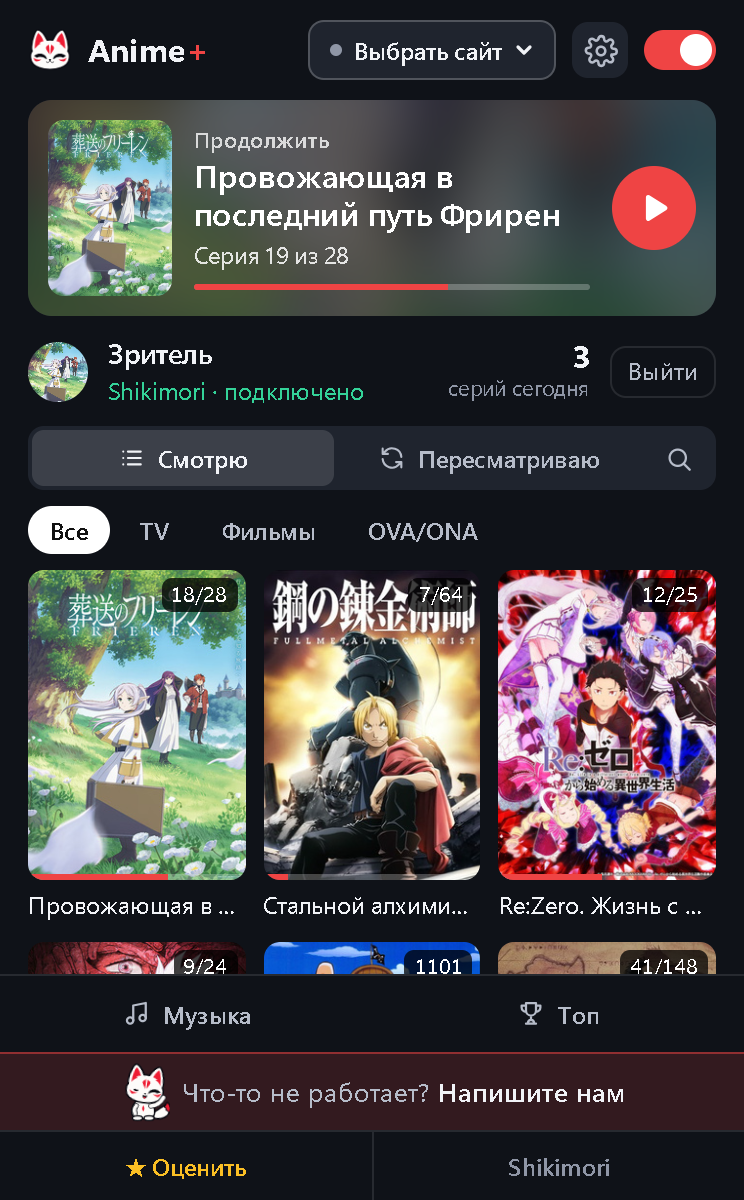
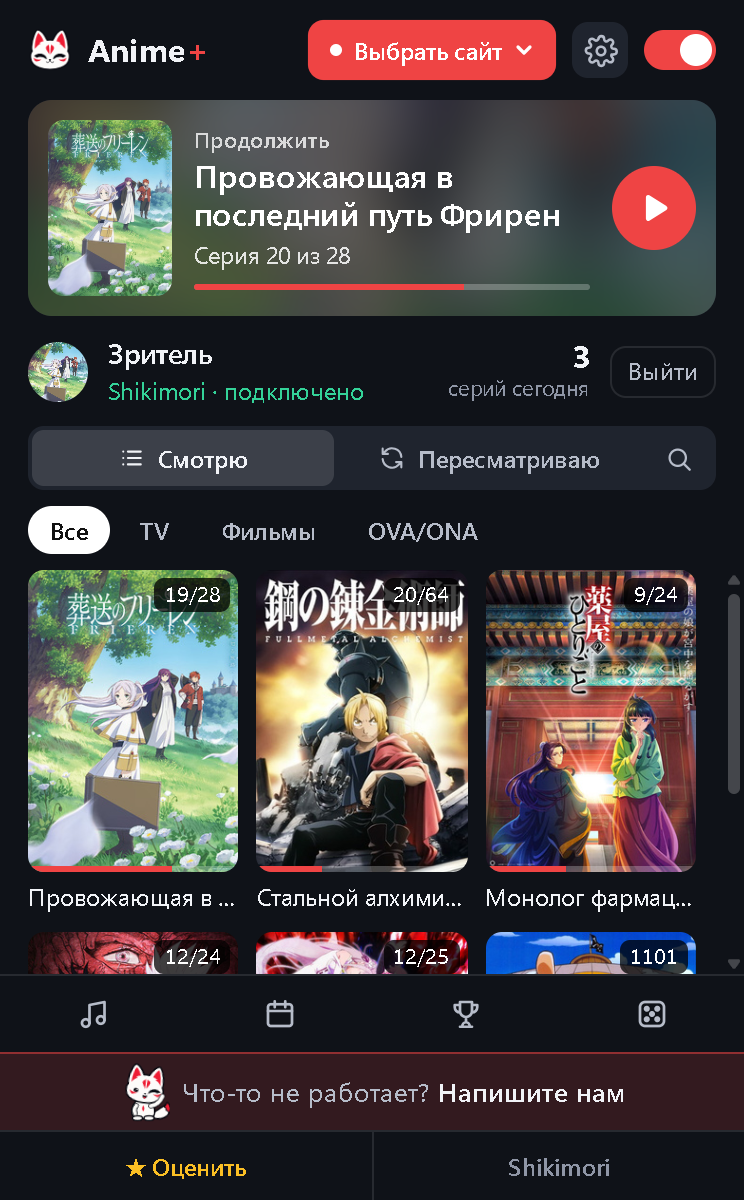
README: снимки 16.3.1 — окно расширения со значками внизу, экскурсия лисы, случайное аниме

diff --git a/README.md b/README.md
@@ -121,7 +121,7 @@
 - Кнопка в шапке открывает все сайты плитками: нажатие на плитку открывает сайт, переключатель в углу выключает на нём Anime+. Пока список ни разу не открывали, кнопка **«Выбрать сайт»** подсвечена.
 - Карточка **«Продолжить»** запускает последний тайтл одним нажатием.
 - Ваши списки в виде обложек с прогрессом, поиском и фильтрами по типам.
-- Опенинги и эндинги текущего аниме со ссылками на YouTube.
+- Значки внизу: **ноты** сразу открывают на YouTube опенинг или эндинг текущей серии, **календарь** открывает расписание, **кубок** открывает Топ Shikimori, а **кубик** подбирает случайное аниме.
 - Кнопка **«Что-то не работает? Напишите нам»** открывает форму поддержки.
 
 ### 🦊 Лиса на сайтах
@@ -132,7 +132,7 @@
 ### 🔎 Поиск нового аниме
 - **Топ Shikimori:** весь рейтинг в одном окне поверх сайта, с подгрузкой при прокрутке и быстрым переходом по оценкам.
 - В окне расширения кнопка **«Топ»** открывает рейтинг во вкладке. Сайт, на котором открывать тайтлы, выбирается в ней вверху и запоминается.
-- **Случайное аниме** по вашим фильтрам: оценка и тип.
+- **Случайное аниме** по вашим фильтрам: оценка и тип. Из окна расширения оно открывается своей вкладкой с описанием, кадрами и кнопками сайтов, где тайтл нашёлся.
 - **Кнопка `▶ Смотреть с Anime+`** на Shikimori ищет тайтл на включённых сайтах.
 
 ### 📅 Расписание онгоингов
@@ -251,7 +251,11 @@ AnimeVost часто меняет адрес. Все зеркала на vost.pw
 
 | Списки Shikimori | Сайты |
 | :---: | :---: |
-| <img src="assets/popup_dark.png" width="280" alt="Окно расширения со списком Смотрю" /> | <img src="assets/popup_sites.png" width="280" alt="Список сайтов в окне расширения" /> |
+| <img src="assets/popup_dark.png" width="280" alt="Окно расширения со списком Смотрю и значками музыки, расписания, Топа и случайного аниме внизу" /> | <img src="assets/popup_sites.png" width="280" alt="Список сайтов в окне расширения" /> |
+
+| Случайное аниме: описание, кадры и сайты, где оно есть |
+| :---: |
+| <img src="assets/random_page.jpg" width="760" alt="Вкладка случайного аниме с постером, описанием, кнопками сайтов и кадрами" /> |
 
 | Страница настроек: меню разделов слева |
 | :---: |
@@ -265,7 +269,7 @@ AnimeVost часто меняет адрес. Все зеркала на vost.pw
 
 | Экскурсия | Задания |
 | :---: | :---: |
-| <img src="assets/guide_tour.png" width="280" alt="Лиса показывает окно расширения" /> | <img src="assets/guide_quest.png" width="280" alt="Задания лисы в окне расширения" /> |
+| <img src="assets/guide_tour.png" width="280" alt="Лиса показывает значки внизу окна расширения" /> | <img src="assets/guide_quest.png" width="280" alt="Задания лисы в окне расширения" /> |
 
 | Подсказка о смене плеера |
 | :---: |
